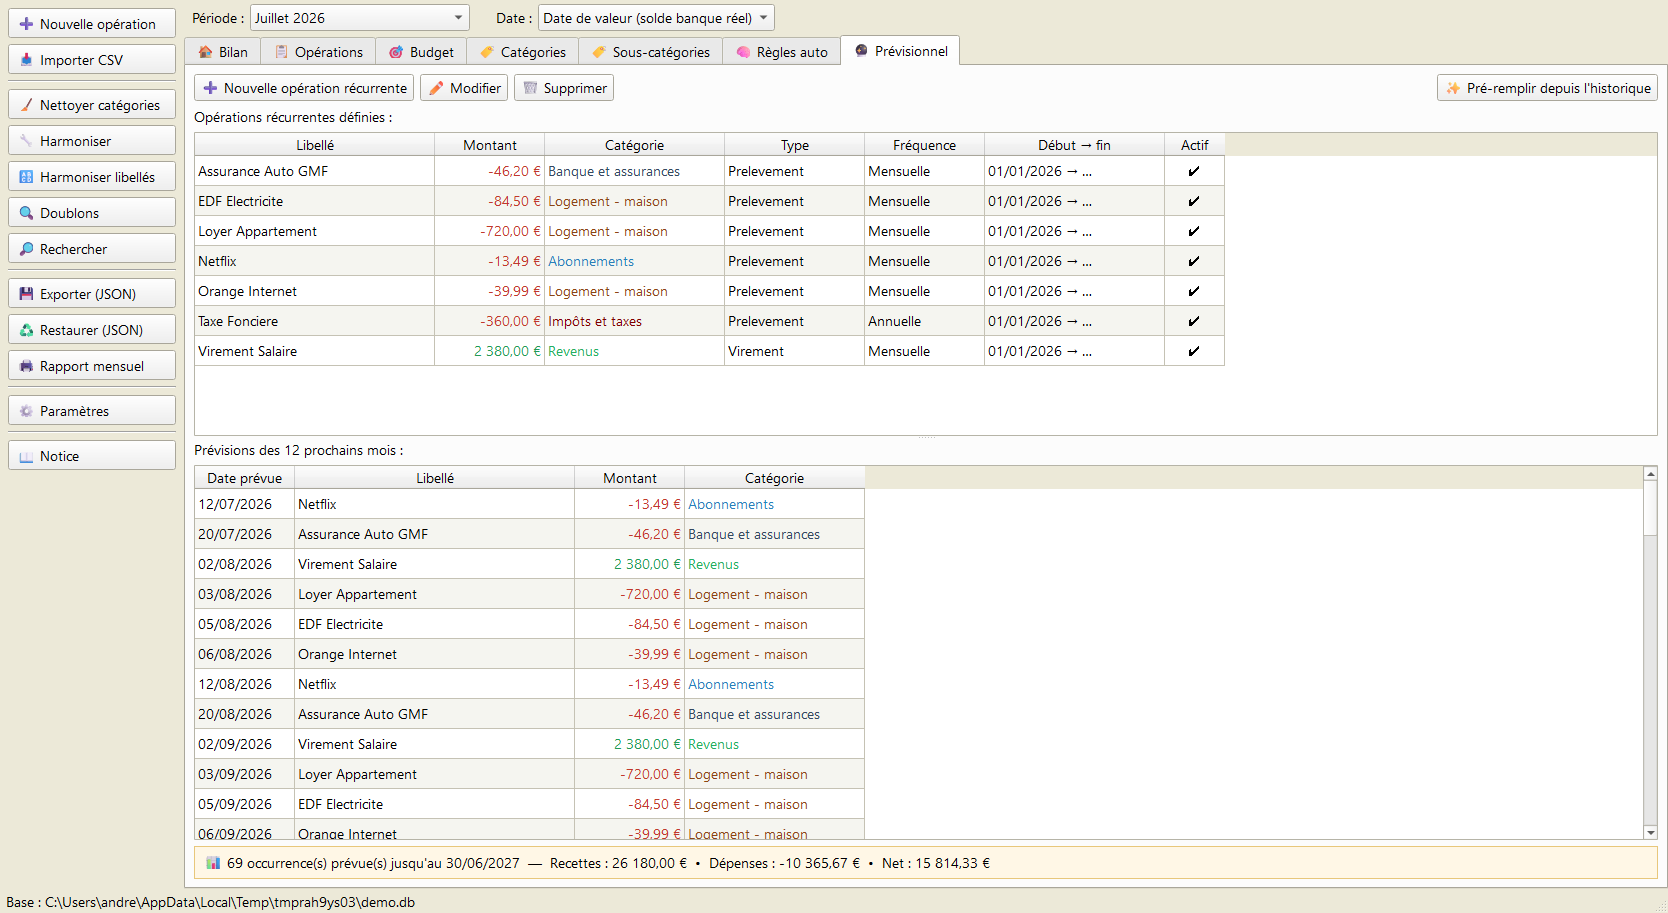
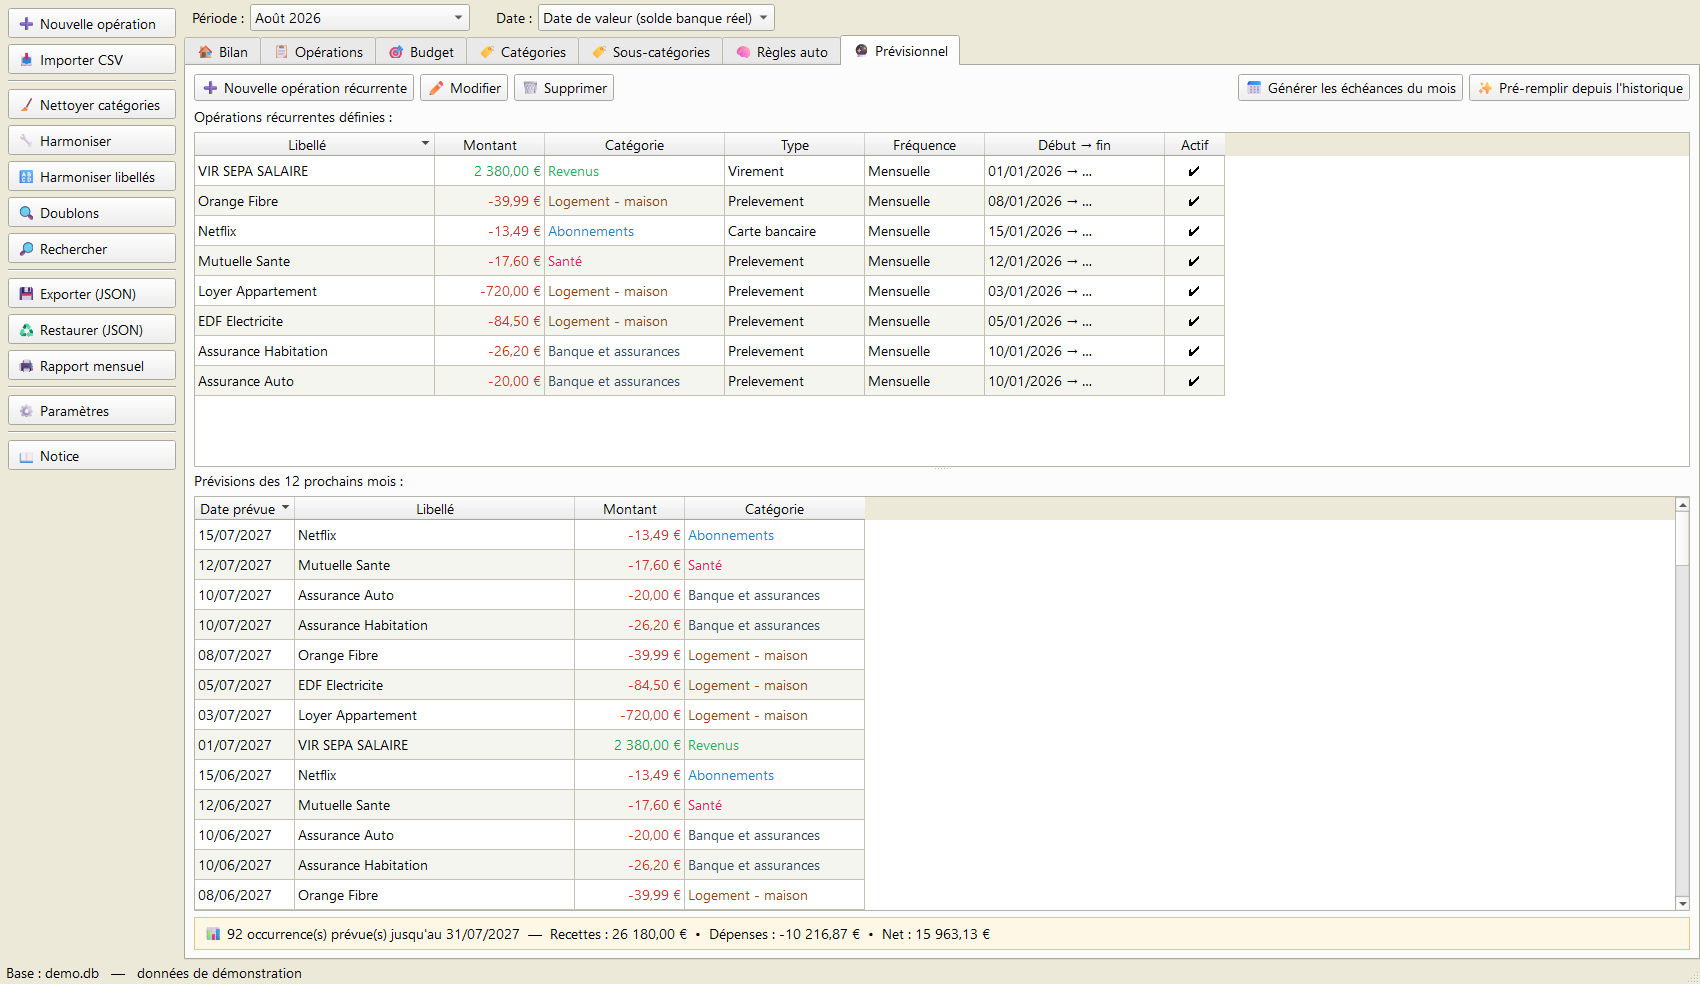
Page publique : captures a jour et deux fonctionnalites ajoutees
Les captures dataient du 7 juillet et ne montraient rien des versions
suivantes. Elles sont refaites sur un jeu de donnees de demonstration
entierement invente, et laissent voir les bandeaux « ce qui est prevu »
et « ce mois-ci » ainsi que l'onglet Previsionnel avec la generation
des echeances.

La liste des fonctionnalites gagne deux cartes qui manquaient :
les echeances du mois et le suivi du debit differe de la carte.

Changed region(s): [[0.0, 0.0, 1.0, 1.0]]

diff --git a/docs/index.html b/docs/index.html
@@ -121,8 +121,10 @@
       <div class="card"><h3>🧠 Catégorisation automatique</h3><p>Des règles classent vos opérations toutes seules au fil des imports.</p></div>
       <div class="card"><h3>🎯 Budgets mensuels</h3><p>Un budget par catégorie, avec barres de progression vertes / oranges / rouges.</p></div>
       <div class="card"><h3>🔮 Prévisionnel</h3><p>Déclarez vos opérations récurrentes (loyer, salaire, abonnements) et anticipez les mois à venir.</p></div>
+      <div class="card"><h3>📅 Échéances du mois</h3><p>Créez d'un clic tout ce qui doit être débité ou encaissé dans le mois. L'import les complète ensuite avec la vraie ligne du relevé, sans doublon.</p></div>
       <div class="card"><h3>🖨 Rapports mensuels</h3><p>Une synthèse imprimable ou exportable en PDF, mois par mois.</p></div>
       <div class="card"><h3>✔ Rapprochement bancaire</h3><p>Pointez vos opérations pour retrouver à l'euro près le solde de votre relevé.</p></div>
+      <div class="card"><h3>💳 Débit différé</h3><p>L'encours de la carte est suivi à part : il n'entre dans votre solde bancaire qu'au jour du prélèvement, comme à la banque.</p></div>
     </div>
   </section>
 
